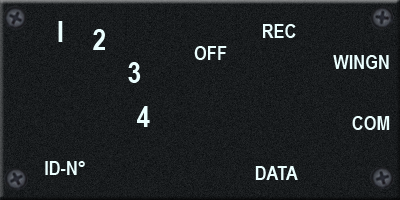
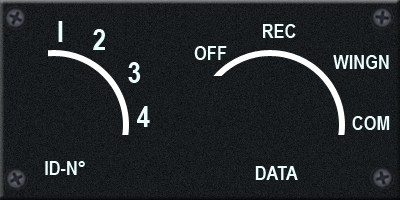
Pilototo Redesign

Changed region(s): [[0.54, 0.24, 0.87, 0.69], [0.12, 0.24, 0.33, 0.69]]

diff --git a/Ka50-Pit.html b/Ka50-Pit.html
@@ -583,57 +583,60 @@
 <div id="Panel_Pilototo">
 
 
-	<img src="images/pilototo/Autopilot_Panel_50.png" width="400" height="140"  > 
+	<img src="images/pilototo/Autopilot_Panel_50.png" width="500" height="200"  > 
 
 	<!-- Voyant Auto Pilote -->
-	<SPAN style="position: absolute; left: 15px; top: 15px; width: 50px; height: 50px ">
-	<img src="images/pilototo/PA_Bank.gif" width="50" height="50"  id="PA-Bank" usemap="#P_Bank"> 
-	<map name="P_Bank">	<area shape="rect" coords="0,0,50,50" href="javascript:CmdDCSRaw(53300101)"> </map> </SPAN>
+	<SPAN style="position: absolute; left: 30px; top: 20px; width: 70px; height: 70px ">
+	<img src="images/pilototo/PA_Bank.png" width="70" height="70"  id="PA-Bank" usemap="#P_Bank"> 
+	<map name="P_Bank">	<area shape="rect" coords="0,0,70,70" href="javascript:CmdDCSRaw(53300101)"> </map> </SPAN>
 	
 	
-	<SPAN style="position: absolute; left: 75px; top: 15px; width: 50px; height: 50px">
-	<img src="images/pilototo/PA_Pitch.gif" width="50" height="50"  id="PA-Pitch" usemap="#P_Pitch">
-	<map name="P_Pitch">	<area shape="rect" coords="0,0,50,50" href="javascript:CmdDCSRaw(53300301)"> </map> </SPAN>
+	<SPAN style="position: absolute; left: 120px; top: 20px; width: 70px; height: 70px">
+	<img src="images/pilototo/PA_Pitch.png" width="70" height="70"  id="PA-Pitch" usemap="#P_Pitch">
+	<map name="P_Pitch">	<area shape="rect" coords="0,0,70,70" href="javascript:CmdDCSRaw(53300301)"> </map> </SPAN>
 	
-	<SPAN style="position: absolute; left: 15px; top: 75px; width: 50px; height: 50px">
-	<img src="images/pilototo/PA_Hdg.gif" width="50" height="50"  id="PA-Hdg" usemap="#P_Hdg">
-	<map name="P_Hdg">	<area shape="rect" coords="0,0,50,50" href="javascript:CmdDCSRaw(53300201)"> </map> </SPAN>
+	<SPAN style="position: absolute; left: 30px; top: 110px; width: 70px; height: 70px">
+	<img src="images/pilototo/PA_Hdg.png" width="70" height="70"  id="PA-Hdg" usemap="#P_Hdg">
+	<map name="P_Hdg">	<area shape="rect" coords="0,0,70,70" href="javascript:CmdDCSRaw(53300201)"> </map> </SPAN>
 	
-	<SPAN style="position: absolute; left: 75px; top: 75px; width: 50px; height: 50px">
-	<img src="images/pilototo/PA_Alt.gif" width="50" height="50"  id="PA-Alt" usemap="#P_Alt">
-	<map name="P_Alt">	<area shape="rect" coords="0,0,50,50" href="javascript:CmdDCSRaw(53300401)"> </map> </SPAN>
+	<SPAN style="position: absolute; left: 120px; top: 110px; width: 70px; height: 70px">
+	<img src="images/pilototo/PA_Alt.png" width="70" height="70"  id="PA-Alt" usemap="#P_Alt">
+	<map name="P_Alt">	<area shape="rect" coords="0,0,70,70" href="javascript:CmdDCSRaw(53300401)"> </map> </SPAN>
 	
-	<SPAN style="position: absolute; left: 170px; top: 15px; width: 50px; height: 50px">
-	<img src="images/pilototo/PA_FD.gif" width="50" height="50"  id="PA-FD" usemap="#P_FD">
-	<map name="P_FD">	<area shape="rect" coords="0,0,50,50" href="javascript:CmdDCSRaw(53300501)"> </map> </SPAN>
+	<SPAN style="position: absolute; left: 210px; top: 65px; width: 70px; height: 70px">
+	<img src="images/pilototo/PA_FD.png" width="70" height="70"  id="PA-FD" usemap="#P_FD">
+	<map name="P_FD">	<area shape="rect" coords="0,0,70,70" href="javascript:CmdDCSRaw(53300501)"> </map> </SPAN>
 	
 	
-	<SPAN style="position: absolute; left: 335px; top: 15px; width: 50px; height: 50px">
-	<img src="images/pilototo/P_Hover-v.gif" width="50" height="50"  id="PA-Hover">
+	<SPAN style="position: absolute; left: 400px; top: 40px; width: 80px; height: 50px">
+	<img src="images/pilototo/Auto_Hover_8050_V.png" width="80" height="50"  id="PA-Hover">
 	</SPAN>
-	<SPAN style="position: absolute; left: 335px; top: 75px; width: 50px; height: 50px">
-	<img src="images/pilototo/P_Descent-v.gif" width="50" height="50"  id="PA-Descent">
+	<SPAN style="position: absolute; left: 400px; top: 110px; width: 80px; height: 50px">
+	<img src="images/pilototo/Auto_Descent_8050_V.png" width="80" height="50"  id="PA-Descent">
 	</SPAN>
-
-	<SPAN style="position: absolute; left: 270px; top: 15px; width: 50px; height: 50px">
-	<img src="images/z_Led-Bouton_Vert.gif" width="50" height="50"  id="PA-TgtTurn">
+	
+	<!-- Selecteur PA Baro - Rad -->
+	<SPAN style="position: absolute; left: 295px; top: 50px; width: 40px; height: 100px">
+	<img src="images/switch/Switch-Metal-D4.png" width="40" height="100" id="PA_baro" usemap="#PAbaro_SW"> 
+	<map name="PAbaro_SW">	
+	<area shape="rect" coords="0,0,40,49"  href="javascript:CmdDCSRaw('13300600')"> 
+	<area shape="rect" coords="0,50,40,100"  href="javascript:CmdDCSRaw('13300601')"> 
+	</map>
 	</SPAN>
-
-
-
-
+	
+	<!-- Selecteur PA Heading Course -->
+	<SPAN style="position: absolute; left: 346px; top: 50px; width: 40px; height: 100px">
+	<img src="images/switch/Switch-Metal-D4.png" width="40" height="100" id="PA_hdg" usemap="#PAhdg_SW"> 
+	<map name="PAhdg_SW">	
+	<area shape="rect" coords="0,0,40,49"  href="javascript:CmdDCSRaw('12800300')"> 
+	<area shape="rect" coords="0,50,40,100"  href="javascript:CmdDCSRaw('12800301')"> 
+	</map>
+	</SPAN>
 
 </div>
 
-
 <!-- xxxxxxxxxxxxxxxxxxxxxxxxxxxxxxxxxxxxxxxxxxxxxxxxxxxxxxxxxxxxxxxxxxxxxxxxxxxxxxxxxxxxxxxxxxxxxxxxxxxxx -->
-
-
-
-
 <!-- xxxxxxxxxxxxxxxxxxxxxxxxxxxxxxxxxxxxxxxxxxxxxxxxxxxxxxxxxxxxxxxxxxxxxxxxxxxxxxxxxxxxxxxxxxxxxxxxxxxxx -->
-
-
 <!-- xxxxxxxxxxxxxxxxxxxxxxxxxxxxxxxxxxxxxxxxxxxxxxxxxxxxxxxxxxxxxxxxxxxxxxxxxxxxxxxxxxxxxxxxxxxxxxxxxxxxx -->
 <div id="Panel_Electric">
 
@@ -694,13 +697,7 @@
 	<SPAN style="position: absolute; left: 219px; top: 228px; width: 50px; height: 50px">
 	<img src="images/electric/E_Inverter-On.gif" width="50" height="50"  id="EV-ACDC">
 	</SPAN>
-	
-	
-
-	
-
 </div>
-
 
 <!-- xxxxxxxxxxxxxxxxxxxxxxxxxxxxxxxxxxxxxxxxxxxxxxxxxxxxxxxxxxxxxxxxxxxxxxxxxxxxxxxxxxxxxxxxxxxxxxxxxxxxx -->
 <div id="Panel_Start">
@@ -803,8 +800,7 @@
 	<img src="images/fuel/FV_START.gif" width="60" height="30"  id="F-Start-ON" data-internal-id="0" onclick="javascript:CmdSiocDCS('F-Start-ON')">
 	</SPAN>
 	
-	
-		<!-- Commande EEG type 2 -->
+	<!-- Commande EEG type 2 -->
 	<SPAN style="position: absolute; left: 410px; top: 340px; width: 60px; height: 30px">
 	<img src="images/fuel/FV_EEG.gif" width="60" height="30"  id="F-EEG-G" data-internal-id="0" onclick="javascript:CmdSiocDCS('F-EEG-G')">
 	</SPAN>
@@ -820,15 +816,8 @@
 	<!--<SPAN style="position: absolute; left: 410px; top: 235px; width: 50px; height: 50px">
 	<img src="images/T_WarnOn.gif" width="50" height="50"  id="FW-Collectif">
 	</SPAN>-->
-	
-	
-
 
 </div>
-
-
-
-
 <!-- xxxxxxxxxxxxxxxxxxxxxxxxxxxxxxxxxxxxxxxxxxxxxxxxxxxxxxxxxxxxxxxxxxxxxxxxxxxxxxxxxxxxxxxxxxxxxxxxxxxxx -->
 
 
@@ -904,13 +893,9 @@
 	<SPAN style="position: absolute; left: 180px; top: 202px; width: 40px; height: 25px ; color:yellow" id="TGT3_deg"> </SPAN>
 	<SPAN style="position: absolute; left: 10px; top: 252px; width: 50px; height: 20px ; background-color:#004411; color:yellow; text-align:center" id="TGT_keyin"> </SPAN>
 
-
-
 </div>
 
 <!-- xxxxxxxxxxxxxxxxxxxxxxxxxxxxxxxxxxxxxxxxxxxxxxxxxxxxxxxxxxxxxxxxxxxxxxxxxxxxxxxxxxxxxxxxxxxxxxxxxxxxx -->
-
-
 
 <div id="Panel_Radio">
 
@@ -1033,8 +1018,6 @@
 	<SPAN style="position: absolute; left: 1000px; top: 1000px; width: 0px; height: 0px ; text-align:center; font-size:10%" id="R_Centi1">	</SPAN>
 	<SPAN style="position: absolute; left: 1000px; top: 1000px; width: 0px; height: 0px ; text-align:center; font-size:10%" id="R_Centi2">	</SPAN>
 
-	
-
 </div>
 
 <!-- xxxxxxxxxxxxxxxxxxxxxxxxxxxxxxxxxxxxxxxxxxxxxxxxxxxxxxxxxxxxxxxxxxxxxxxxxxxxxxxxxxxxxxxxxxxxxxxxxxxxx -->
@@ -1045,10 +1028,7 @@
 
 	<map name="Abris_P">
 
-			<!-- Start / Off -->
-			<area shape="rect" coords="10,15,70,45" href="javascript:CmdDCSRaw('10900901')">
-			<area shape="rect" coords="10,145,70,175" href="javascript:CmdDCSRaw('10900900')">
-			
+						
 			<!-- Bouton 1,2,3,4,5 -->
 			<area shape="rect" coords="70,100,140,170" href="javascript:CmdDCSRaw('50900101')">
 			<area shape="rect" coords="155,100,225,170" href="javascript:CmdDCSRaw('50900201')">
@@ -1058,8 +1038,14 @@
 	</map> 
 	
 	<!-- Selecteur On/Off -->
-	<SPAN style="position: absolute; left: -4px; top: 58px; width: 80px; height: 80px">
-	<img src="images/Switch-Metal-D3.gif" width="80" height="80" id="On_Abris">	</SPAN>
+	<SPAN style="position: absolute; left: 17px; top: 46px; width: 40px; height: 100px">
+	<img src="images/switch/Switch-Metal-D4.png" width="40" height="100" id="On_Abris" usemap="#On_Abris_SW"> 
+	<map name="On_Abris_SW">	
+	<area shape="rect" coords="0,0,40,49"  href="javascript:CmdDCSRaw('10900901')"> 
+	<area shape="rect" coords="0,50,40,100"  href="javascript:CmdDCSRaw('10900900')"> 
+	</map>
+	</SPAN>
+
 	
 	<!-- Option Menu -->
 	<SPAN style="position: absolute; left: 70px; top: 60px; width: 70px; height: 35px" id="Abris_1"> </SPAN>

diff --git a/js/panel_pilototo.js b/js/panel_pilototo.js
@@ -3,26 +3,33 @@
 function panel_pilototo_update(KaTZPit_data){
 	
 
-	if (dataread_posit(KaTZPit_data["AP_KA1"],5) ==1) {	$("#PA-Bank").attr('src','images/pilototo/PA_Bank.gif')	}
-		else {	$("#PA-Bank").attr('src','images/pilototo/PA_Bank_off.gif')}
+	if (dataread_posit(KaTZPit_data["AP_KA1"],5) ==1) {	$("#PA-Bank").attr('src','images/pilototo/PA_Bank.png')	}
+		else {	$("#PA-Bank").attr('src','images/pilototo/PA_Bank_off.png')}
 	
-	if (dataread_posit(KaTZPit_data["AP_KA1"],4) ==1) {	$("#PA-Pitch").attr('src','images/pilototo/PA_Pitch.gif')}
-		else { $("#PA-Pitch").attr('src','images/pilototo/PA_Pitch_off.gif')}
+	if (dataread_posit(KaTZPit_data["AP_KA1"],4) ==1) {	$("#PA-Pitch").attr('src','images/pilototo/PA_Pitch.png')}
+		else { $("#PA-Pitch").attr('src','images/pilototo/PA_Pitch_off.png')}
 	
-	if (dataread_posit(KaTZPit_data["AP_KA1"],3) ==1) {	$("#PA-Hdg").attr('src','images/pilototo/PA_Hdg.gif')}
-		else { $("#PA-Hdg").attr('src','images/pilototo/PA_Hdg_off.gif')}
+	if (dataread_posit(KaTZPit_data["AP_KA1"],3) ==1) {	$("#PA-Hdg").attr('src','images/pilototo/PA_Hdg.png')}
+		else { $("#PA-Hdg").attr('src','images/pilototo/PA_Hdg_off.png')}
 	
-	if (dataread_posit(KaTZPit_data["AP_KA1"],2) ==1) {	$("#PA-Alt").attr('src','images/pilototo/PA_Alt.gif')}
-		else {$("#PA-Alt").attr('src','images/pilototo/PA_Alt_off.gif')}
+	if (dataread_posit(KaTZPit_data["AP_KA1"],2) ==1) {	$("#PA-Alt").attr('src','images/pilototo/PA_Alt.png')}
+		else {$("#PA-Alt").attr('src','images/pilototo/PA_Alt_off.png')}
 	
-	if (dataread_posit(KaTZPit_data["AP_KA1"],1) ==1) {	$("#PA-FD").attr('src','images/pilototo/PA_FD.gif')}
-		else {$("#PA-FD").attr('src','images/pilototo/PA_FD_off.gif')}
+	if (dataread_posit(KaTZPit_data["AP_KA1"],1) ==1) {	$("#PA-FD").attr('src','images/pilototo/PA_FD.png')}
+		else {$("#PA-FD").attr('src','images/pilototo/PA_FD_off.png')}
 		
 	
+	// Voyants Hover et Descent
 	if (dataread_posit(KaTZPit_data["AP_KA2"],1) ==1) {$("#PA-Hover").fadeIn()} else {$("#PA-Hover").fadeOut()}	
 	if (dataread_posit(KaTZPit_data["AP_KA2"],2) ==1) {$("#PA-Descent").fadeIn()} else {$("#PA-Descent").fadeOut()}	
-	if (dataread_posit(KaTZPit_data["AP_KA2"],3) ==1) {$("#PA-TgtTurn").fadeIn()} else {$("#PA-TgtTurn").fadeOut()}	
-
+	
+	// Switch Baro/Rad et HDGN/CRS
+	if (dataread_posit(KaTZPit_data["AP_KA1"],7) == 0) {$("#PA_baro").attr('src','images/switch/Switch-Metal-U4.png')}	
+	else  {$("#PA_baro").attr('src','images/switch/Switch-Metal-D4.png')}	
+		
+	if (dataread_posit(KaTZPit_data["AP_KA1"],6) == 0) {$("#PA_hdg").attr('src','images/switch/Switch-Metal-U4.png')}	
+	else  {$("#PA_hdg").attr('src','images/switch/Switch-Metal-D4.png')}	
+	
 	
 }
 

diff --git a/js/panel_electric.js b/js/panel_electric.js
@@ -89,11 +89,11 @@ function panel_electric_light(KaTZPit_data){
 
 		// Selecteur Dome L
 		if (dataread_posit(KaTZPit_data["E_NavLight"],6) ==1) {$("#E_Dome_L").attr('src','images/switch/Switch-Metal-U4.png')}	
-		if (dataread_posit(KaTZPit_data["E_NavLight"],6) ==0) {$("#E_Dome_L").attr('src','images/switch/Switch-Metal-D4.png')}	
+		else {$("#E_Dome_L").attr('src','images/switch/Switch-Metal-D4.png')}	
 		
 		// Selecteur Panel Instrument
 		if (dataread_posit(KaTZPit_data["E_NavLight"],5) ==1) {$("#E_Panel_L").attr('src','images/switch/Switch-Metal-U4.png')}	
-		if (dataread_posit(KaTZPit_data["E_NavLight"],5) ==0) {$("#E_Panel_L").attr('src','images/switch/Switch-Metal-D4.png')}	
+		else {$("#E_Panel_L").attr('src','images/switch/Switch-Metal-D4.png')}	
 		
 		// Selecteur Nav Light
 		if (dataread_posit(KaTZPit_data["E_NavLight"],4) ==3) {$("#E_Nav_L").attr('src','images/switch/Switch-Metal-U4.png')}	

diff --git a/js/panel_device.js b/js/panel_device.js
@@ -16,8 +16,8 @@ function panel_device_abris(KaTZPit_data){
 	document.getElementById('Abris_5').innerHTML = Abris_Menu[AbrisL3[0]]
 	
 	// Bouton On/Off
-	if (AbrisL3[1] == 1) {$("#On_Abris").attr('src','images/Switch-Metal-U3.gif')} 
-	else {$("#On_Abris").attr('src','images/Switch-Metal-D3.gif')}
+	if (AbrisL3[1] == 1) {$("#On_Abris").attr('src','images/switch/Switch-Metal-U4.png')} 
+	else {$("#On_Abris").attr('src','images/switch/Switch-Metal-D4.png')}
 	
 	
 }

diff --git a/css/KA50-Pit.css b/css/KA50-Pit.css
@@ -226,7 +226,7 @@ p {
 #Panel_Pilototo {
 	position: absolute;
 	top: 10px;
-	left: 2550px;
+	left: 2510px;
 	/* Dimension 775 x 10			              */
 	font-family:arial, sans-serif;
 	font-size:100%;
